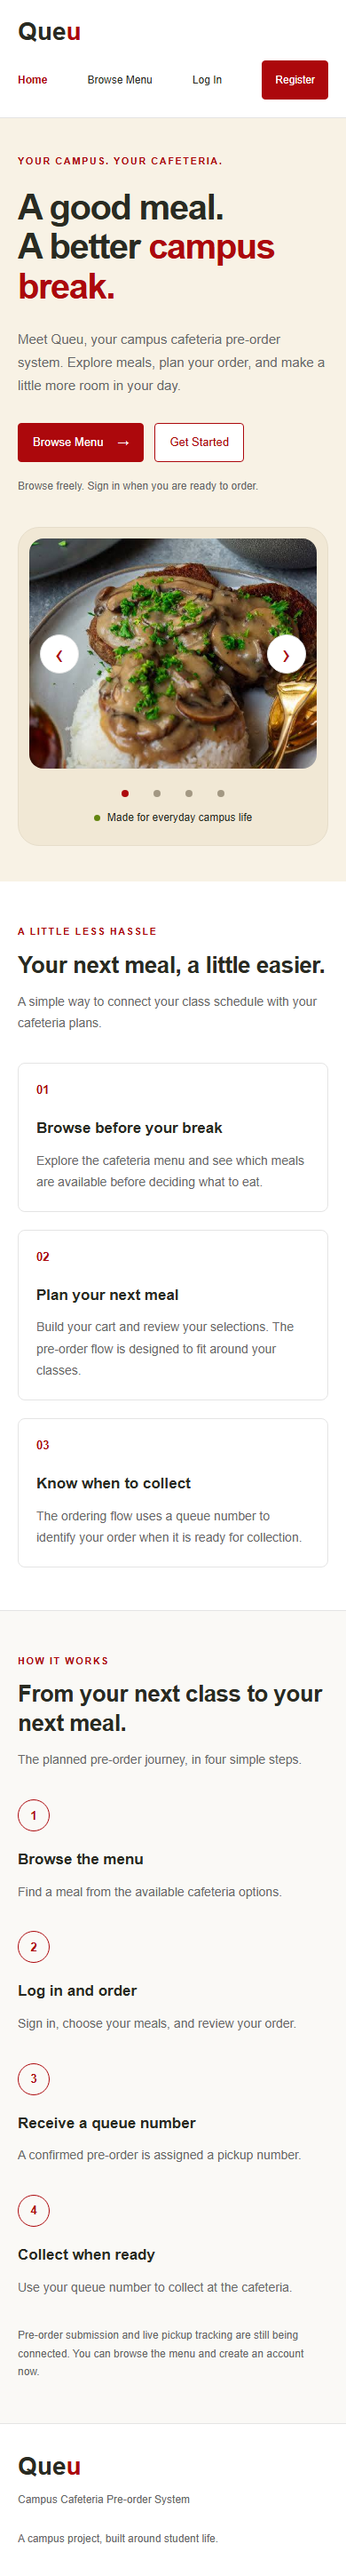
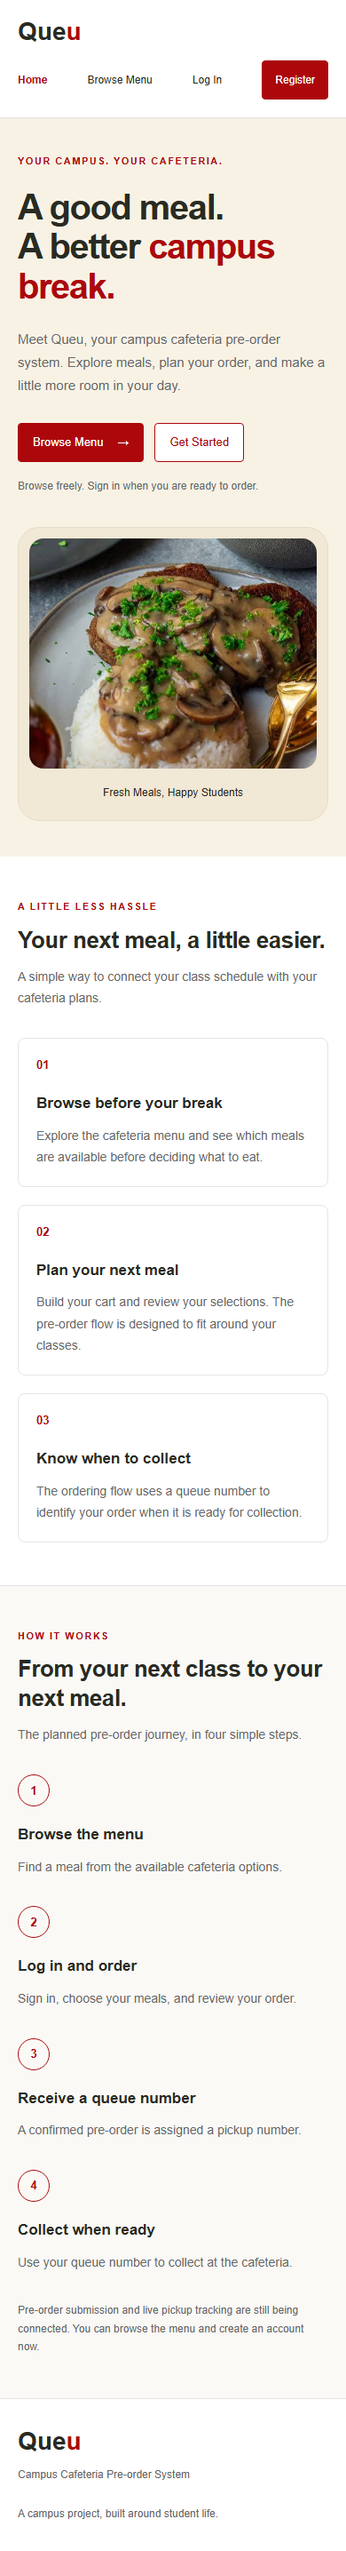
style: simplify landing hero to a single meal photo

diff --git a/frontend/src/pages/LandingPage.css b/frontend/src/pages/LandingPage.css
@@ -139,116 +139,16 @@
 .landing-visual img {
   display: block;
   width: 100%;
-  height: 100%;
-  object-fit: cover;
-  user-select: none;
-}
-
-.meal-carousel-frame {
-  position: relative;
-}
-
-.meal-carousel-viewport {
-  overflow: hidden;
-  border-radius: 16px;
-  touch-action: pan-y pinch-zoom;
-  cursor: grab;
-}
-
-.meal-carousel-viewport:active {
-  cursor: grabbing;
-}
-
-.meal-carousel-track {
-  display: flex;
-  transition: transform 300ms ease;
-}
-
-.meal-carousel-slide {
-  flex: 0 0 100%;
-  min-width: 0;
+  height: auto;
   aspect-ratio: 5 / 4;
-}
-
-.meal-carousel-arrow {
-  position: absolute;
-  top: 50%;
-  display: grid;
-  place-items: center;
-  width: 44px;
-  height: 44px;
-  padding: 0;
-  border: 1px solid #e4e4e4;
-  border-radius: 50%;
-  background: white;
-  color: #ac080c;
-  font-size: 30px;
-  line-height: 1;
-  transform: translateY(-50%);
-}
-
-.meal-carousel-arrow:hover {
-  background: #f8f2e5;
-}
-
-.meal-carousel-arrow--previous {
-  left: 12px;
-}
-
-.meal-carousel-arrow--next {
-  right: 12px;
-}
-
-.meal-carousel-dots {
-  display: flex;
-  justify-content: center;
-  gap: 4px;
-  margin: 12px 0 4px;
-}
-
-.meal-carousel-dot {
-  display: grid;
-  place-items: center;
-  width: 32px;
-  height: 32px;
-  padding: 0;
-  border: 0;
-  border-radius: 50%;
-  background: transparent;
-}
-
-.meal-carousel-dot::after {
-  content: '';
-  width: 8px;
-  height: 8px;
-  border-radius: 50%;
-  background: #a39883;
-}
-
-.meal-carousel-dot[aria-current='true']::after {
-  background: #ac080c;
-}
-
-@media (prefers-reduced-motion: reduce) {
-  .meal-carousel-track {
-    transition: none;
-  }
+  object-fit: cover;
+  border-radius: 16px;
 }
 
 .landing-visual figcaption {
-  display: flex;
-  align-items: center;
-  justify-content: center;
-  gap: 8px;
-  margin: 4px 0 12px;
+  margin: 20px 0 12px;
+  text-align: center;
   font-size: 12px;
-}
-
-.landing-visual-dot {
-  width: 7px;
-  height: 7px;
-  border-radius: 50%;
-  background: #638510;
 }
 
 .landing-benefits {

diff --git a/frontend/src/pages/LandingPage.jsx b/frontend/src/pages/LandingPage.jsx
@@ -1,4 +1,3 @@
-import MealCarousel from '../components/landing/MealCarousel'
 import './LandingPage.css'
 
 const benefits = [
@@ -120,7 +119,15 @@ export default function LandingPage({ onNavigate }) {
               </p>
             </div>
 
-            <MealCarousel />
+            <figure className="landing-visual">
+              <img
+                src="/image.png"
+                alt="Rice topped with burger patties and mushroom gravy"
+                width="600"
+                height="480"
+              />
+              <figcaption>Fresh Meals, Happy Students</figcaption>
+            </figure>
           </div>
         </section>
 

diff --git a/frontend/docs/landing-page.md b/frontend/docs/landing-page.md
@@ -9,10 +9,9 @@ The landing page loads without a login, backend server, database, or order/queue
   workflow, and project footer. Repeated cards use arrays and `map`.
 - `src/pages/LandingPage.css`: scoped styles using the existing colors, Arial,
   shared button classes, Flexbox, Grid, and media queries. No `:root` variables.
-- `src/components/landing/MealCarousel.jsx`: displays four user-provided local
-  meal photos with touch swipe, mouse drag, previous/next arrows, slide dots, and
-  left/right keyboard controls. It uses `useState` and `useRef`, with no new library.
-  The photos are hero visuals, not menu or availability records.
+- `public/image.png`: one user-provided meal photo, displayed in a static figure
+  with the caption "Fresh Meals, Happy Students". There are no carousel controls
+  or decorative dots. The photo is a hero visual, not a menu or availability record.
 - `src/App.jsx`: maps `/` to the landing page and makes `/menu` public using the
   existing navigation approach. React Router is not installed or added.
 - `CafeteriaLayout.jsx`: includes Home and displays Log in for public visitors.
@@ -41,10 +40,7 @@ authentication, checkout submission, queue generation, APIs, or database behavio
 - `npm run lint`: passed.
 - `npm run build`: passed.
 - Production-build browser checks passed at 1280×900, 768×1024, 390×844, and
-  320×700: no horizontal overflow; all four photos loaded; all sections rendered.
-- Carousel arrows, first/last wraparound, dots, keyboard controls, mouse drag, and
-  real touch swipe passed browser checks. Reduced-motion preference removes the
-  slide transition. Slides change manually; there is no automatic timer.
+  320×700: no horizontal overflow; the photo loaded; all sections rendered.
 - Landing made zero API requests. No order/queue calls or order submissions were
   made during the browser checks.
 - Home, Browse Menu, Log In, Register, Get Started, account brand links, and
